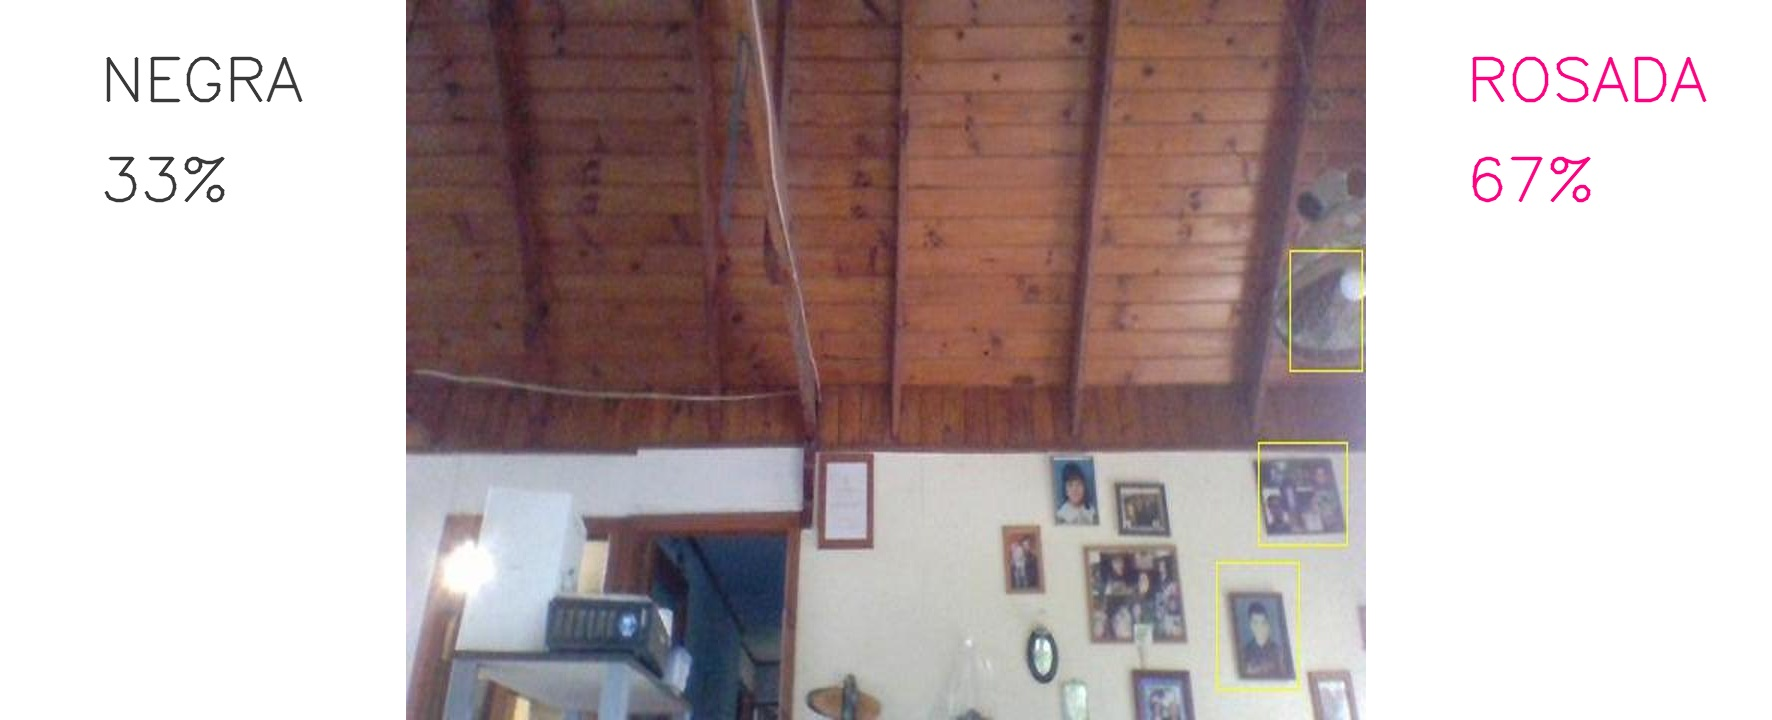
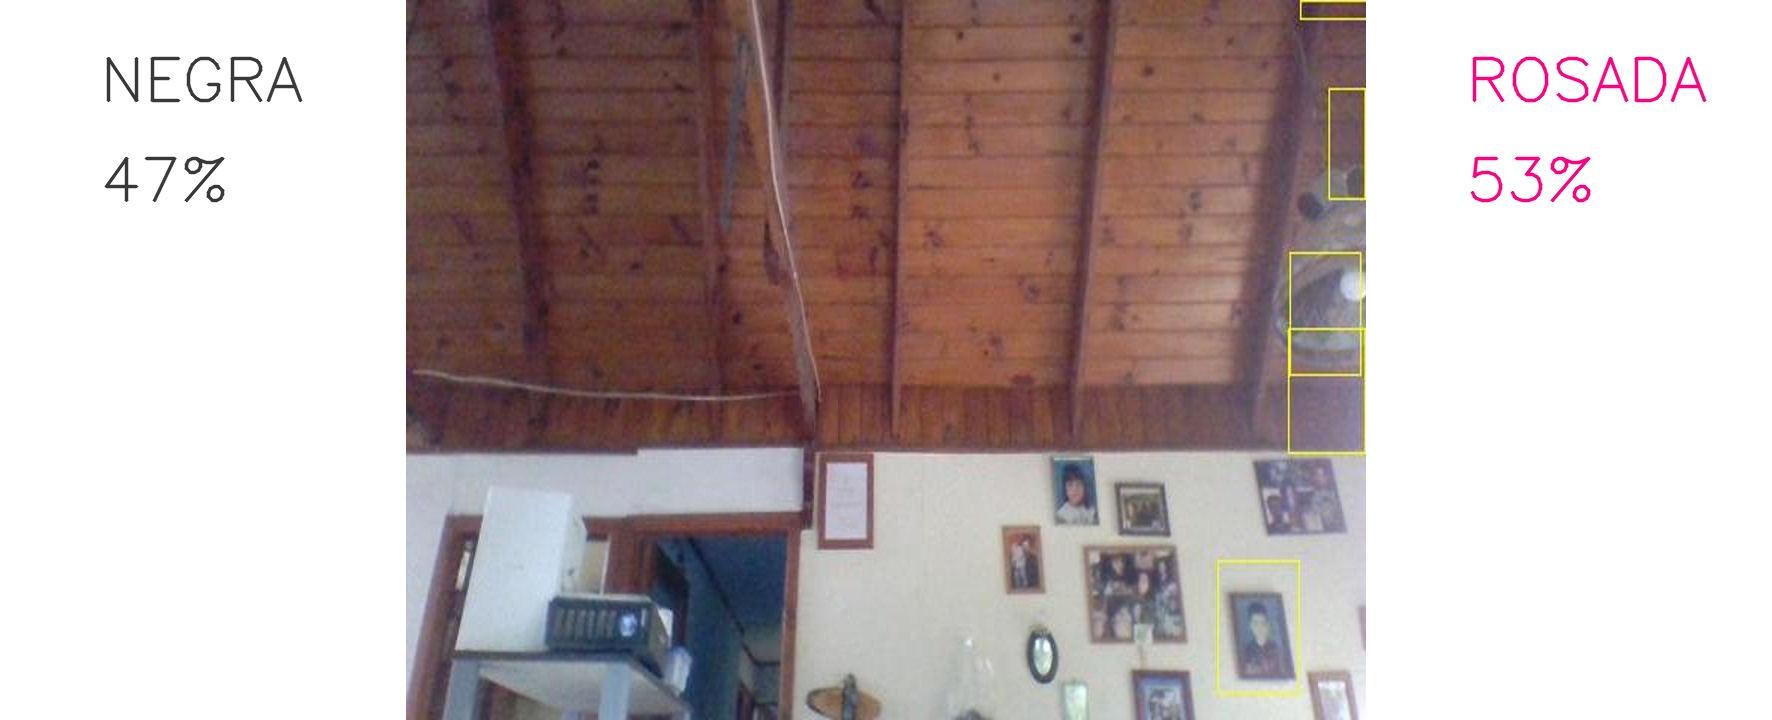
Fix

diff --git a/DetectorCV.py b/DetectorCV.py
@@ -69,11 +69,11 @@ def main():
     print('TOTAL rosada:'+str(rosada))
     print('__________________________________')
     print('')
-    if ((negra+rosada)!=0):
+    if ((negra+rosada)==0):
       final_negra=round(negra/(negra+rosada)*100)
     else:
       final_negra=0
-    if ((negra+rosada)!=0):
+    if ((negra+rosada)==0):
       final_rosada=round(rosada/(negra+rosada)*100)
     else:
       final_rosada=0
